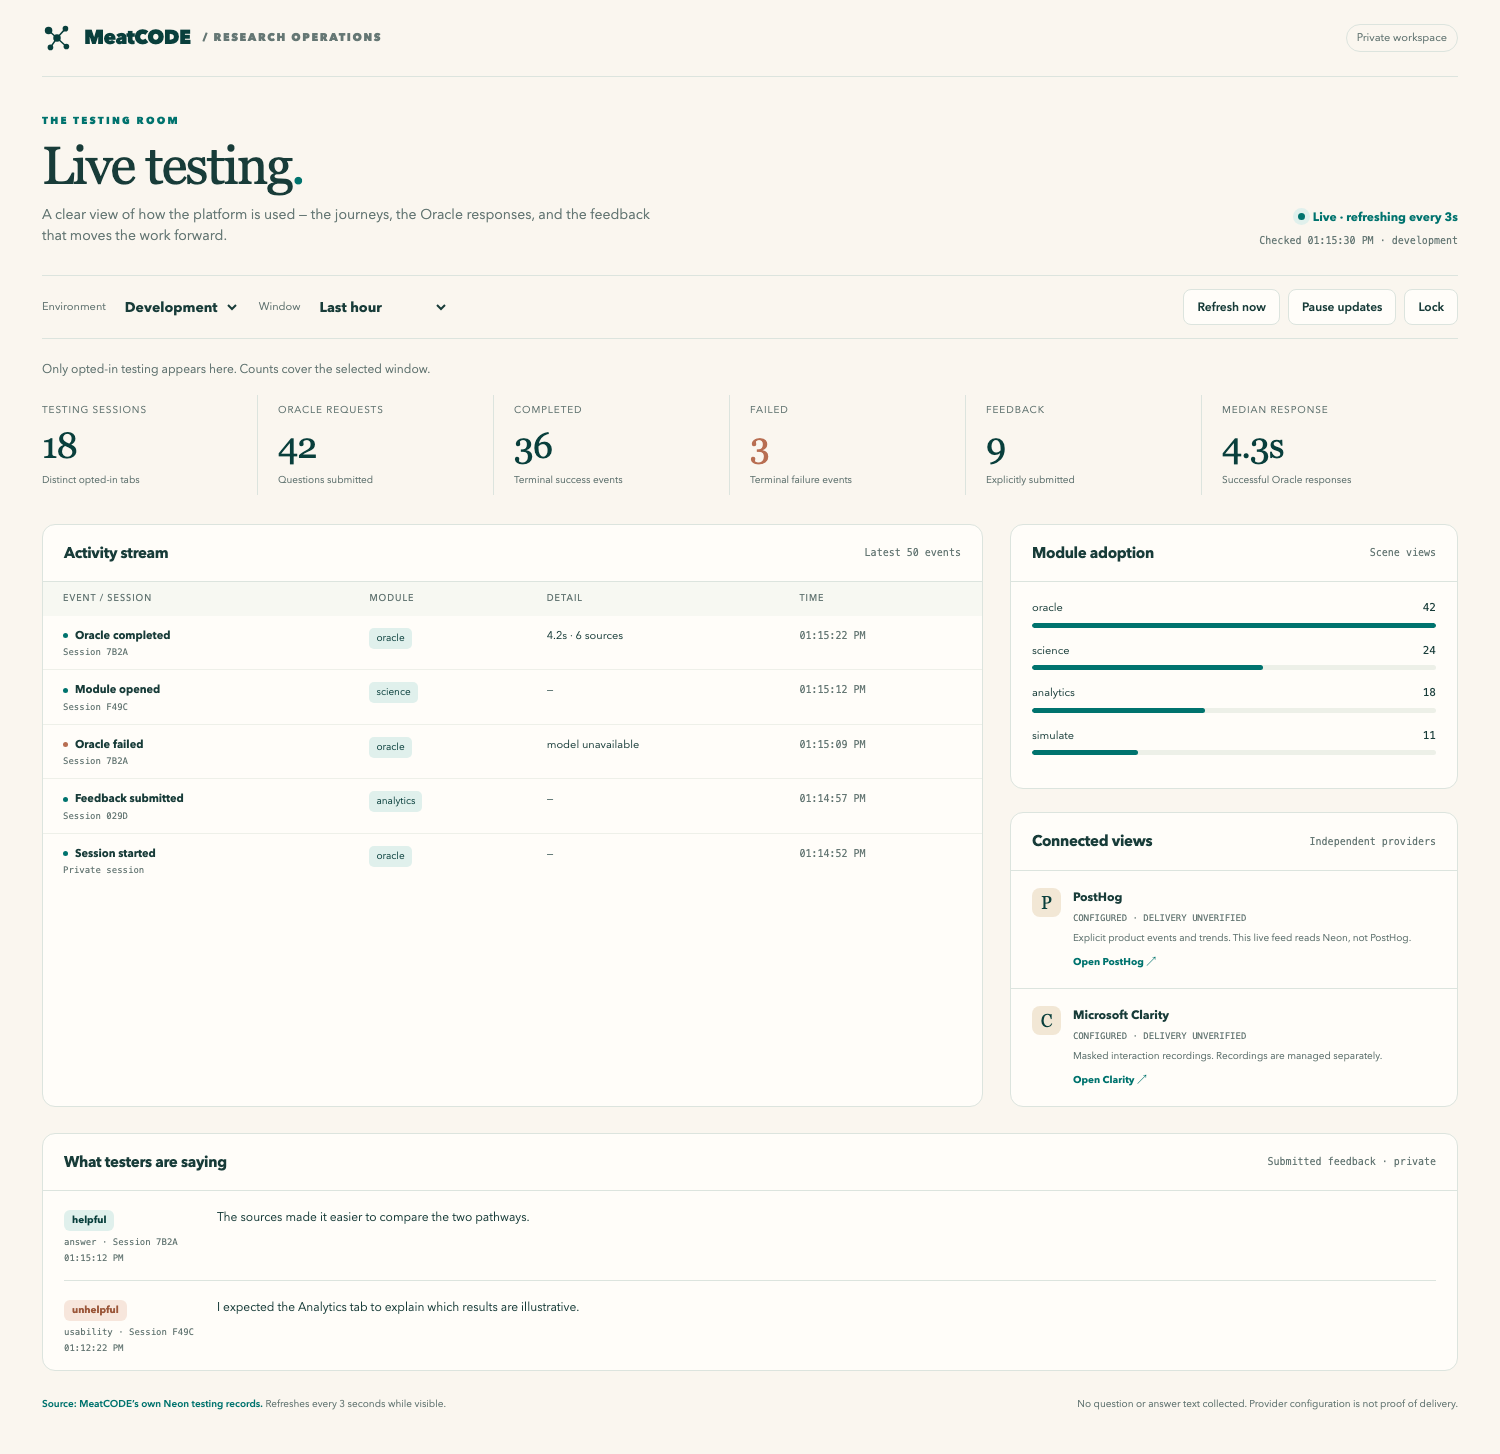
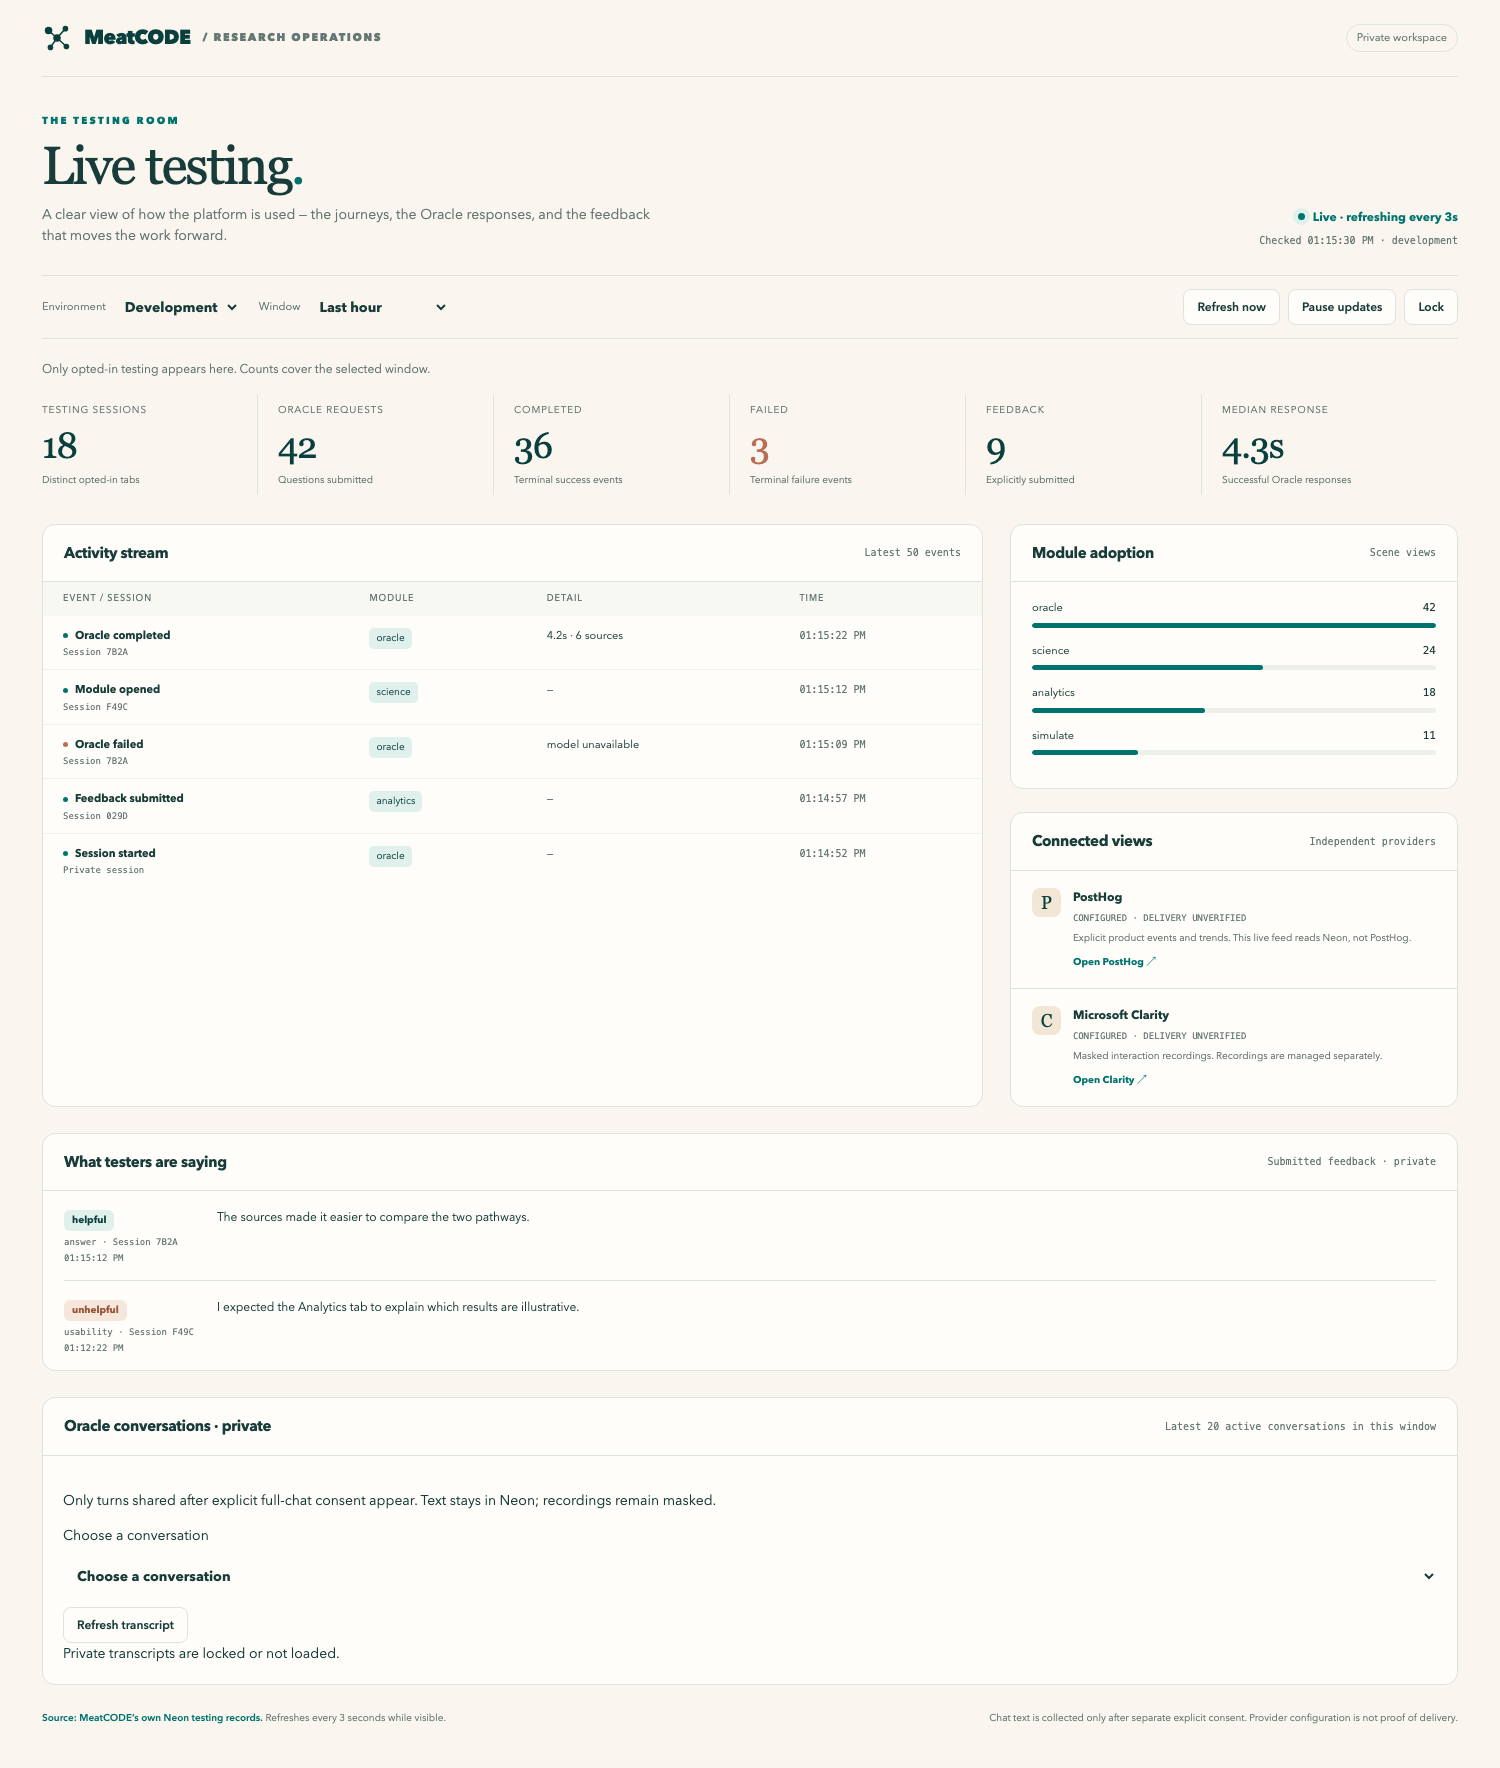
dev 2026-10-29 16:51

diff --git a/platform_docs/diagrams/build_adaptive_review.py b/platform_docs/diagrams/build_adaptive_review.py
@@ -1,4 +1,4 @@
-"""Updated 2026-10-26 · Render the editable SVG and one-page review brief."""
+"""Updated 2026-10-29 · Render one-page review briefs, including permission tables."""
 from pathlib import Path
 import re
 import sys
@@ -6,7 +6,7 @@ from reportlab.lib import colors
 from reportlab.lib.styles import getSampleStyleSheet, ParagraphStyle
 from reportlab.lib.enums import TA_LEFT
 from reportlab.lib.pagesizes import A4
-from reportlab.platypus import SimpleDocTemplate, Paragraph, Spacer
+from reportlab.platypus import SimpleDocTemplate, Paragraph, Spacer, Table, TableStyle
 from pypdf import PdfReader
 
 root = Path(__file__).resolve().parent.parent
@@ -17,8 +17,37 @@ styles.add(ParagraphStyle(name='BriefHeading', fontName='Helvetica-Bold', fontSi
 styles.add(ParagraphStyle(name='BriefBody', fontName='Helvetica', fontSize=9.1, leading=12, spaceAfter=4))
 story=[]
 stem = sys.argv[1] if len(sys.argv) > 1 else 'ADAPTIVE_ORACLE_ONE_PAGE'
+styles.add(ParagraphStyle(name='TableBody', fontName='Helvetica', fontSize=8, leading=10))
+table_rows=[]
+def flush_table():
+    if not table_rows: return
+    rows=[]
+    for i,row in enumerate(table_rows):
+        rows.append([Paragraph(('<b>'+v+'</b>') if i==0 else v, styles['TableBody']) for v in row])
+    width=A4[0]-80
+    table=Table(rows,colWidths=[width/len(rows[0])]*len(rows[0]),hAlign='LEFT')
+    table.setStyle(TableStyle([
+        ('BACKGROUND',(0,0),(-1,0),colors.HexColor('#DCEDEA')),
+        ('ROWBACKGROUNDS',(0,1),(-1,-1),[colors.HexColor('#F4F7F6'),colors.white]),
+        ('VALIGN',(0,0),(-1,-1),'TOP'),
+        ('LEFTPADDING',(0,0),(-1,-1),6),('RIGHTPADDING',(0,0),(-1,-1),6),
+        ('TOPPADDING',(0,0),(-1,-1),5),('BOTTOMPADDING',(0,0),(-1,-1),5),
+        ('LINEBELOW',(0,0),(-1,0),0.5,colors.HexColor('#7DA8A2')),
+    ]))
+    story.extend([table,Spacer(1,6)])
+    table_rows.clear()
 for line in (root/(stem+'.md')).read_text().splitlines():
+    if line.startswith('|'):
+        cells=[v.strip() for v in line.strip('|').split('|')]
+        if all(re.fullmatch(r'[: -]+',v) for v in cells): continue
+        table_rows.append([v.replace('&','&amp;') for v in cells])
+        continue
+    flush_table()
     if not line.strip(): continue
+    if line.startswith('![') and 'meatcode-dataset-modules.svg' in line:
+        from dataset_modules_illustration import module_diagram
+        story.extend([module_diagram(),Spacer(1,5)])
+        continue
     style='BriefBody'
     if line.startswith('# '): line=line[2:];style='BriefTitle'
     elif line.startswith('## '): line=line[3:];style='BriefHeading'
@@ -27,6 +56,7 @@ for line in (root/(stem+'.md')).read_text().splitlines():
     line=re.sub(r'\*\*(.*?)\*\*',r'<b>\1</b>',line)
     if line.startswith('_') and line.endswith('_'): line='<i>'+line[1:-1]+'</i>'
     story.append(Paragraph(line,styles[style]))
+flush_table()
 out=root/(stem+'.pdf')
 SimpleDocTemplate(str(out),pagesize=A4,rightMargin=40,leftMargin=40,topMargin=35,bottomMargin=35).build(story)
 assert len(PdfReader(out).pages)==1, 'Brief exceeds one page'

diff --git a/platform_docs/diagrams/dataset_modules_illustration.py b/platform_docs/diagrams/dataset_modules_illustration.py
@@ -1,0 +1,51 @@
+"""Updated 2026-10-29 · Editable vector diagram for the dataset one-pager."""
+from reportlab.graphics.shapes import Drawing, Rect, String, PolyLine, Polygon
+from reportlab.lib.colors import HexColor
+
+def module_diagram():
+    d = Drawing(515, 174)
+    teal, gold, ink = '#008681', '#B68416', '#173B3A'
+    def text(x,y,s,size=8,color=ink,bold=False):
+        d.add(String(x,y,s,fontName='Helvetica-Bold' if bold else 'Helvetica',
+                     fontSize=size,fillColor=HexColor(color),textAnchor='middle'))
+    def box(x,y,w,h,color):
+        d.add(Rect(x,y,w,h,rx=6,ry=6,fillColor=HexColor(color),strokeColor=None))
+    def path(points,color,arrow=True):
+        d.add(PolyLine(points,strokeColor=HexColor(color),strokeWidth=1.2))
+        if arrow:
+            x,y=points[-2:]; px,py=points[-4:-2]
+            dx,dy=x-px,y-py; norm=(dx*dx+dy*dy)**.5;dx/=norm;dy/=norm
+            d.add(Polygon([x,y,x-5*dx+2.3*dy,y-5*dy-2.3*dx,
+                           x-5*dx-2.3*dy,y-5*dy+2.3*dx],
+                          fillColor=HexColor(color),strokeColor=None))
+    box(154,141,207,30,'#DCEDEA')
+    text(257.5,159,'MASTER DATASET',9,bold=True)
+    text(257.5,148,'Baseline + approved, origin-tagged additions',7.3)
+    path([257.5,141,257.5,125],teal,False)
+    path([80,125,426,125],teal,False)
+    text(112,131,'Published data',7,teal)
+    for x,title,lines in [
+        (8,'ORACLE',['Evidence + search indexes','Private user context*']),
+        (181,'ECOSYSTEM',['Published base','Working records + proposals']),
+        (354,'SIMULATION',['Models + inputs','Run outputs / predictions'])]:
+        box(x,61,144,51,'#F0F5F4')
+        path([x+72,125,x+72,112],teal)
+        text(x+72,98,title,8.5,bold=True)
+        text(x+72,84,lines[0],7.5)
+        text(x+72,72,lines[1],7.5)
+        path([x+72,61,x+72,46],gold,False)
+    path([80,46,426,46],gold,False)
+    path([257.5,46,257.5,33],gold)
+    text(127,36,'Proposed changes',7,gold)
+    box(177,9,161,24,'#FFF1D4')
+    text(257.5,24,"LIOR'S APPROVAL",8,bold=True)
+    text(257.5,14,'Exact revision only',7)
+    path([338,21,507,21,507,156,361,156],gold)
+    text(424,12,'Approved publication',7,gold)
+    text(130,1,'*Private context is not shared by default. No direct sibling writes.',6.5)
+    return d
+
+if __name__ == '__main__':
+    from pathlib import Path
+    from reportlab.graphics import renderSVG
+    renderSVG.drawToFile(module_diagram(),str(Path(__file__).with_name('meatcode-dataset-modules.svg')))

diff --git a/AGENT_UPDATE_LOG.md b/AGENT_UPDATE_LOG.md
@@ -1,5 +1,54 @@
 # MeatCODE — Agent Update Log
 
+## 2026-10-29 · Advisory · Save dataset guide and verify publishing paths
+Confirmed editable guide and SVG in platform_docs. PDF was absent on this check; regenerated from
+the existing source, verified one page and visually inspected. Read .git/config and Release Center
+scripts: origin is Bokipr0/meatCODE, deploy-dev commits/pushes local changes to dev after remote
+history checks, promote-to-prod publishes dev to main with confirmation. No Git commands or deploys
+run; live authentication/sync not tested. Local save is not automatic GitHub synchronization.
+
+## 2026-10-29 · Oracle transcript research live
+
+Added separately consented Oracle questions, answers, clarifications and citation capture into
+private Neon user_research.oracle_turns, with an administrator-only paginated transcript viewer.
+Consent renews to 2026-10-29-chat-v1; checkbox is unchecked and historical chats are not imported.
+Clarity remains masked; no chat text reaches Clarity or PostHog. Migration0019 applied to both
+existing databases; scientific inventories and Necmettin's private-data denial verified unchanged.
+61 Python tests passed per database in rollback-only fixtures; browser capture/dashboard privacy
+checks and synthetic local HTTP save/read/withdraw/late-write rejection passed. Runtime e98349d
+verified live on dev/main (Render dep-dbhmk8k9v7es73bib4sg / dep-dbhml0a9lscs739vbnb0).
+Hosted transcript routes deny unauthenticated access; authenticated hosted capture awaits fresh
+tester opt-in. Local private dashboard reads production successfully, with zero transcripts yet.
+This uses existing private schemas, not a newly provisioned independent Neon branch. Retention
+includes chat in the existing manual 90-day maintenance; no automatic purge was scheduled.
+Current feature switches preserved; unrelated in-progress documentation edits left untouched.
+Details: platform_docs/ORACLE_CHAT_RESEARCH.md. Rollback prod-20261029-before-oracle-chat.
+
+## 2026-10-29 · Advisory · Dataset module illustration
+Replaced requested safe-updates section in DATASET_ROLES_ONE_PAGE.md/.pdf with vector master/module/
+approval diagram. Shows module data areas, published distribution, proposed revisions and approved
+return path; private context exclusion and no sibling writes explicit. Added editable SVG and drawing
+helper in platform_docs/diagrams; brief renderer embeds the native vector drawing. Rendered final PDF
+and verified readable, non-overlapping, one-page layout. Existing permissions table retained. No
+database/account changes or publishing performed.
+
+## 2026-10-29 · Advisory · One-page permissions comparison
+At Lior's request updated DATASET_ROLES_ONE_PAGE.md and regenerated its PDF with a five-column
+role/permissions comparison. Kept collaborator assignments, mandatory Lior approval, existing
+Necmettin access and pending infrastructure explicit. Updated provisioning wording to acknowledge
+Neon installed/enabled but tools unavailable at last check. Added Markdown table rendering to
+platform_docs/diagrams/build_adaptive_review.py. PDF page count and rendered layout checked: one
+page, table wraps cleanly. No database, account, automation or Git changes; local files await publication.
+
+## 2026-10-29 15:17 UTC · Data · Implementation access check
+User explicitly requested implementation of the governed Neon scheme. Rechecked connector tools
+(none), Neon plugin installation (not installed), local Neon CLI/configuration (absent), and API
+key presence (absent; no secrets printed). Existing production/dev SQL credentials are available,
+but do not provide Neon project-management access. Browser fallback reached Neon sign-in; left
+the tab visible for user handoff. No projects, database changes, grants or scheduled jobs created.
+The previously prepared backup/one-pager/provisioning plan remain available. Requires connection
+or sign-in before independent projects can be provisioned and the complete workflow verified.
+
 ## 2026-10-29 15:03 UTC · Data/Advisory · Governance decision, private backups and provisioning blocker
 User authorized isolated module projects and backups, then mandated Lior approval for EVERY child revision before master admission. Prepared `platform_docs/DATASET_ROLES_ONE_PAGE.md/.pdf` (verified one page) and `DATASET_PROVISIONING_PLAN.md`: origin tags, immutable revisions, approval/hash check, asynchronous publication/outbox, simple roles, no automated approval. Yochai is Ecosystem collaborator; Pablo/Daniel suggested assignments remain ungranted. Preserved existing Necmettin access.
 Created reusable read-only `pipeline/backup_governed_datasets.py`. Initial sandbox DNS failure; authorized escalated retry succeeded. Consistent pg_dump custom archives for configured prod (58 tables,1,774,889 bytes) and dev (65 tables,36,936,865 bytes), private mode0600 in ignored `data/backups/20261029T150102Z/`. Manifest contains hashes, snapshot counts and role metadata (no passwords). pg_restore listing passed; full restore drill NOT performed; no claim of all other databases/account settings being covered.

diff --git a/platform_docs/DATASET_ROLES_ONE_PAGE.md b/platform_docs/DATASET_ROLES_ONE_PAGE.md
@@ -1,6 +1,6 @@
 # MeatCODE — governed datasets and permissions
 
-_29 October 2026 · Agreed approval rule; infrastructure provisioning pending Neon connection._
+_Last updated: 29 October 2026 · Data/Advisory · Permissions and module architecture; provisioning pending._
 
 **Flow:** Master → approved module copies → child contributions → Lior's review → master → affected modules. No child has credentials to write directly into the master. Tags record origin; your approval controls admission.
 
@@ -12,18 +12,19 @@ _29 October 2026 · Agreed approval rule; infrastructure provisioning pending Ne
 - **Simulation / Lior owner; Pablo proposed collaborator:** Stores models, inputs and run outputs. If assigned, Pablo can contribute simulation records within this component. Predictions remain labelled predictions and require your approval before entering shared knowledge. No new account grant until collaborator assignment is confirmed.
 - **Review / Lior only:** Sees added, modified and withdrawn records with before/after differences and provenance. Approves or rejects a specific immutable revision. A later edit requires fresh approval; rejected or pending records never propagate.
 
-## Simple roles
+## Roles and permissions at a glance
 
-- **Owner:** Lior. Manage a component and its access; only Lior can approve master publication.
-- **Contributor:** Read the assigned module's published data; write working records and submit revisions. No master/sibling/admin access.
-- **Viewer:** Read only explicitly shared records. Daniel is a proposed stakeholder viewer; scope is not yet granted. Necmettin's existing scientific read-only review access is preserved, not expanded.
-- **Publisher service:** Applies only the exact revision approved by Lior; distributes versioned updates. No permission to approve. Module applications use separate service credentials.
+| Role | Read scope | Edit / submit | Approve master | Publish / manage access |
+| --- | --- | --- | --- | --- |
+| Owner / Lior | Master + modules | Manage records; child changes still reviewed | Yes, exact revision | Authorize publication; manage access |
+| Contributor | Assigned module | Working records; submit revisions | No | Neither |
+| Viewer | Explicitly shared data | No | No | Neither |
+| Publisher service | Approved revisions + required targets | Apply approved revision only | No | Publish approved version; no access management |
 
-## Safe updates, notifications and backups
+**Assignments:** Yochai is the intended Ecosystem contributor. Pablo (Simulation) and Daniel (viewer) are proposed, not granted. Necmettin's existing scientific read-only access is preserved. Module applications use separate credentials; no contributor gets master or sibling access.
 
-- Every contribution carries origin component/project, source record, contributor, time, evidence, revision/hash and review decision. Preserve original identity when redistributing, preventing Ecosystem → master → Oracle → master duplication loops.
-- Accepted updates publish as versions: Ecosystem can inform Oracle through the master. Delivery is asynchronous with retry/deduplication; modules may briefly show different versions. No claim of simultaneous cross-database transactions.
-- A scheduled digest will list pending changes, age and review links; it will never approve or publish. Frequency and review interface remain undecided; no schedule activated.
-- Take a full production and development database backup before restructuring. Keep private archives outside publication, verify archive integrity, and run a restore drill before migration. Refresh/export jobs must preserve module-owned additions.
+## Data modules and approval flow
 
-**Deployment status:** Existing databases remain in place. Three separate Neon module projects, contributor accounts, the approval interface and synchronization jobs are not live yet. Neon account authorization is required to provision the projects.
+![Module architecture: master distributes published data to Oracle, Ecosystem and Simulation; proposed changes return only through Lior's approval.](diagrams/meatcode-dataset-modules.svg)
+
+**Deployment status:** Proposed architecture and permissions. Three Neon module projects, new contributor accounts, review interface and synchronization jobs have not yet been verified live.

diff --git a/PROJECT_STATE.md b/PROJECT_STATE.md
@@ -1,5 +1,50 @@
 # PROJECT_STATE — MeatCODE
 
+## 2026-10-29 · Dataset guide saved locally; publication remains manual
+
+One-page dataset PDF regenerated in platform_docs alongside Markdown and editable SVG.
+Local Git configuration points to Bokipr0/meatCODE; Release Center deploy-dev and promote-to-prod
+scripts remain present. No push/deployment performed for this document; remote sync not verified.
+
+## 2026-10-29 · Oracle transcript research live
+
+Added separately consented Oracle questions, answers, clarifications and citation capture into
+private Neon user_research.oracle_turns, with an administrator-only paginated transcript viewer.
+Consent renews to 2026-10-29-chat-v1; checkbox is unchecked and historical chats are not imported.
+Clarity remains masked; no chat text reaches Clarity or PostHog. Migration0019 applied to both
+existing databases; scientific inventories and Necmettin's private-data denial verified unchanged.
+61 Python tests passed per database in rollback-only fixtures; browser capture/dashboard privacy
+checks and synthetic local HTTP save/read/withdraw/late-write rejection passed. Runtime e98349d
+verified live on dev/main (Render dep-dbhmk8k9v7es73bib4sg / dep-dbhml0a9lscs739vbnb0).
+Hosted transcript routes deny unauthenticated access; authenticated hosted capture awaits fresh
+tester opt-in. Local private dashboard reads production successfully, with zero transcripts yet.
+This uses existing private schemas, not a newly provisioned independent Neon branch. Retention
+includes chat in the existing manual 90-day maintenance; no automatic purge was scheduled.
+Current feature switches preserved; unrelated in-progress documentation edits left untouched.
+Details: platform_docs/ORACLE_CHAT_RESEARCH.md. Rollback prod-20261029-before-oracle-chat.
+
+## 2026-10-29 · Dataset guide architecture illustration
+
+Replaced the safe-updates text section with a compact vector diagram in the same one-page PDF:
+master publishes to Oracle/Ecosystem/Simulation, each shows its data areas, proposed revisions
+return via Lior-only approval. Editable SVG saved in platform_docs/diagrams/meatcode-dataset-modules.svg.
+Permission table retained; final PDF visually checked, one page. No infrastructure changes.
+
+## 2026-10-29 · Dataset guide permission comparison added
+
+Updated `platform_docs/DATASET_ROLES_ONE_PAGE.md/.pdf` with owner, contributor, viewer and
+publisher comparison across read/edit/approval/publication/access-management permissions.
+Preserved Lior-only revision approval and distinction between proposed and existing grants.
+PDF verified visually and remains one page. Documentation only; no database/access changes.
+
+## 2026-10-29 15:17 UTC · Neon implementation access check
+
+Implementation explicitly requested. No Neon connector tools, CLI login, or configured
+NEON_API_KEY/NEON_API_TOKEN available; existing SQL connections are present but cannot create
+the planned independent Neon projects. In-app Neon console opens at sign-in; left ready for
+Lior. No database/project/permission changes made in this check. Existing backup and provisioning
+plan above remain the prepared handoff; account connection is required to continue.
+
 ## 2026-10-29 15:03 UTC · Governed datasets: backup complete, provisioning pending
 
 User requires explicit Lior approval of each child contribution revision before master publication;
